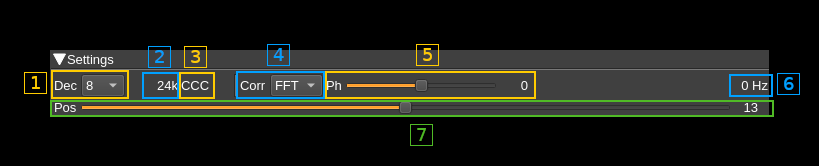
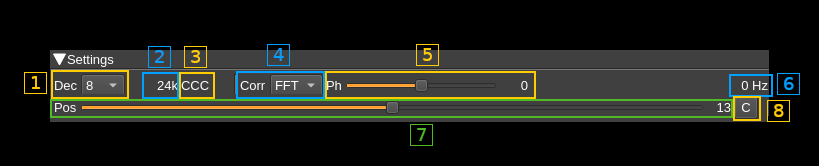
DOA2: added button to center frequency position in passband

Changed region(s): [[0.0611, 0.5723, 0.9768, 0.753]]

diff --git a/plugins/channelmimo/doa2/doa2gui.cpp b/plugins/channelmimo/doa2/doa2gui.cpp
@@ -387,6 +387,22 @@ void DOA2GUI::on_fftAveraging_currentIndexChanged(int index)
     setFFTAveragingToolitp();
 }
 
+void DOA2GUI::on_centerPosition_clicked()
+{
+    uint32_t filterChainHash = 1;
+    uint32_t mul = 1;
+
+    for (uint32_t i = 1; i < m_settings.m_log2Decim; i++)
+    {
+        mul *= 3;
+        filterChainHash += mul;
+    }
+
+    m_settings.m_filterChainHash = filterChainHash;
+    ui->position->setValue(m_settings.m_filterChainHash);
+    applyPosition();
+}
+
 void DOA2GUI::applyDecimation()
 {
     uint32_t maxHash = 1;
@@ -432,6 +448,7 @@ void DOA2GUI::makeUIConnections()
     QObject::connect(ui->baselineDistance, QOverload<int>::of(&QSpinBox::valueChanged), this, &DOA2GUI::on_baselineDistance_valueChanged);
     QObject::connect(ui->squelch, &QDial::valueChanged, this, &DOA2GUI::on_squelch_valueChanged);
     QObject::connect(ui->fftAveraging, QOverload<int>::of(&QComboBox::currentIndexChanged), this, &DOA2GUI::on_fftAveraging_currentIndexChanged);
+    QObject::connect(ui->centerPosition, &QPushButton::clicked, this, &DOA2GUI::on_centerPosition_clicked);
 }
 
 void DOA2GUI::updateAbsoluteCenterFrequency()

diff --git a/plugins/channelmimo/doa2/doa2gui.h b/plugins/channelmimo/doa2/doa2gui.h
@@ -106,6 +106,7 @@ private slots:
     void on_baselineDistance_valueChanged(int value);
     void on_squelch_valueChanged(int value);
     void on_fftAveraging_currentIndexChanged(int index);
+    void on_centerPosition_clicked();
     void onWidgetRolled(QWidget* widget, bool rollDown);
     void onMenuDialogCalled(const QPoint& p);
 	void tick();

diff --git a/plugins/channelmimo/doa2/readme.md b/plugins/channelmimo/doa2/readme.md
@@ -87,6 +87,10 @@ The slider moves the channel center frequency roughly from the lower to the high
   - **1**: centered
   - **2**: higher half-band
 
+<h3>A.8. Center filter in passband</h3>
+
+Use this button to center the filter in the middle of the passband automatically. This sets all filters to center i.e CCC...
+
 The resulting filter chain sequence is represented in (A.3)
 
 <h2>B. Scope display</h2>
